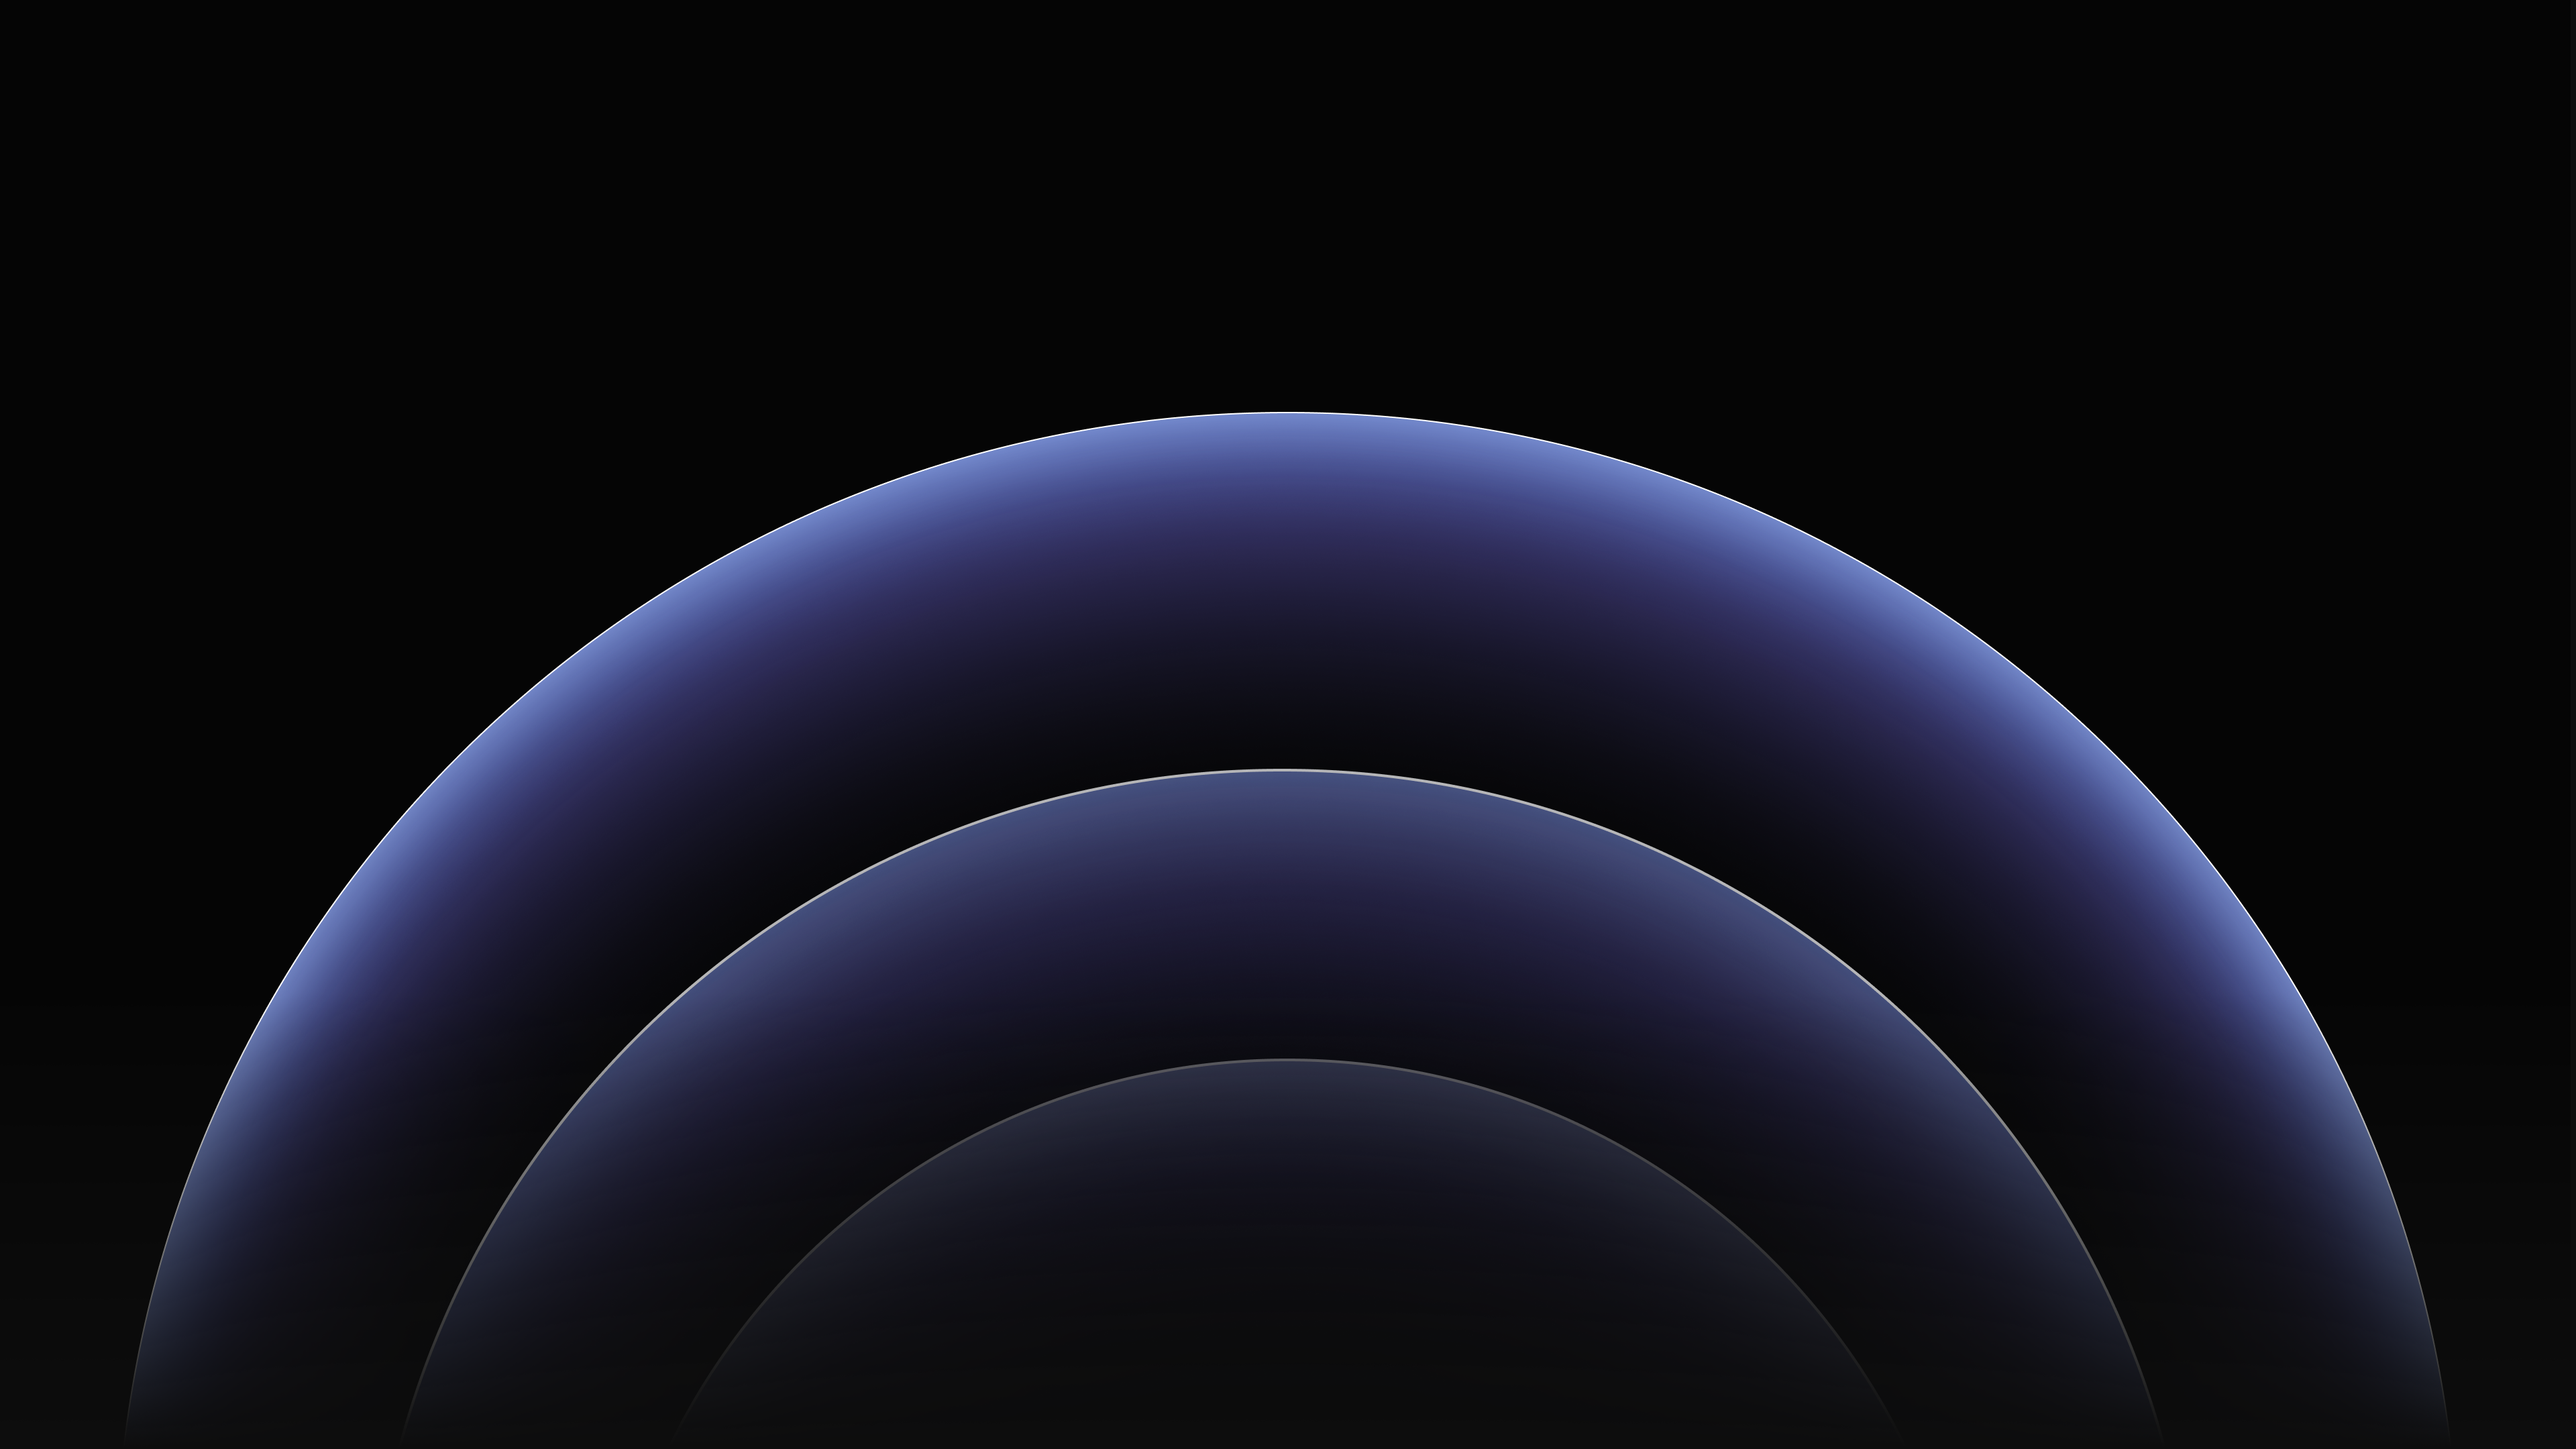
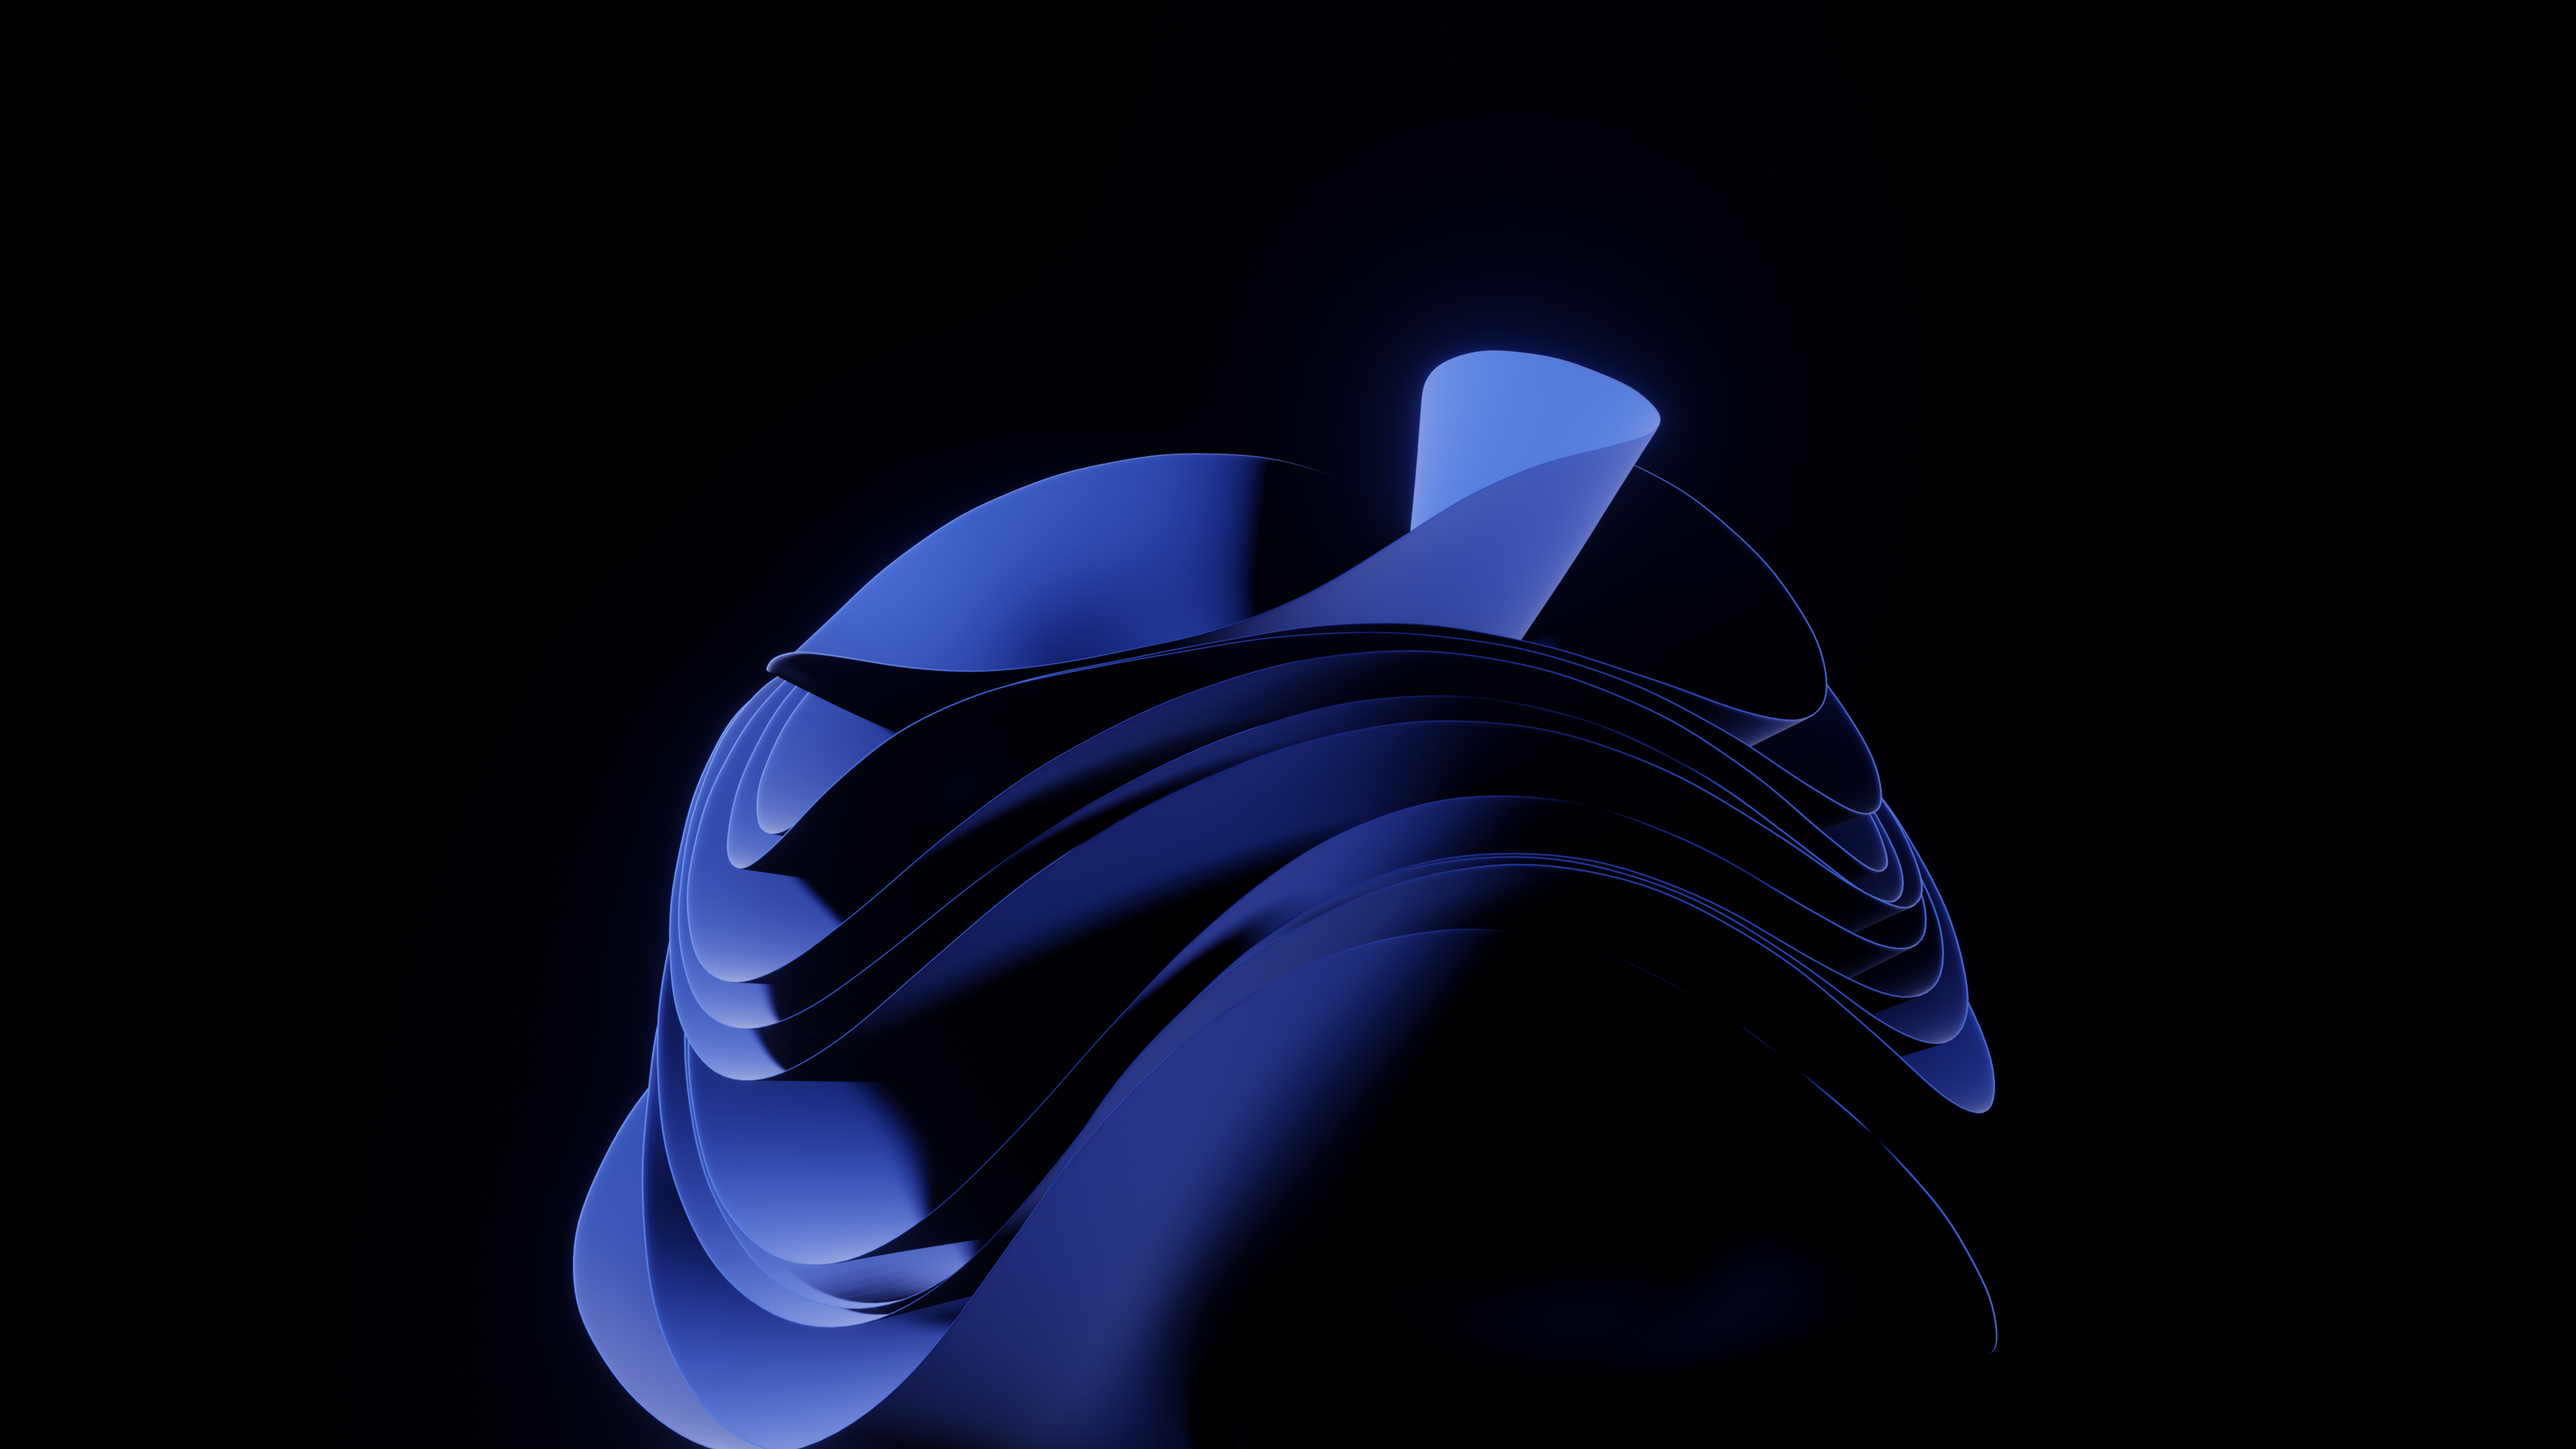
Added README and new configs

diff --git a/README.md b/README.md
@@ -1,0 +1,29 @@
+# KDE 6 Ricing Configs
+
+This repository contains most of my configuration files for ricing KDE 6. It includes visual tweaks and a music equalizer setup.
+
+## Applications Used
+
+- **[Force Blur (iGerman00 fork)](https://github.com/iGerman00/kwin-effects-forceblur)**  
+  A better blur effect for a liquid glass style transparencies  
+  - [View Configs](/better-blur)
+
+- **[JamesDSP (JDSP4Linux)](https://github.com/Audio4Linux/JDSP4Linux)**  
+  Audio equalizer for music  
+  - [View Configs](/JamesDSP)
+
+- **[FastFetch](https://github.com/fastfetch-cli/fastfetch)**  
+  Lightweight system info fetcher  
+  - [View Configs](/fastfetch)
+
+- **[Klassy](https://github.com/paulmcauley/klassy)**  
+  Custom window decorator for a more refined look  
+  - [View Configs](/Klassy)
+
+- **[Rounded Corners](https://github.com/matinlotfali/KDE-Rounded-Corners)**  
+  Enhances rounded corners across KDE  
+  - [View Configs](/Rounded-Corners)
+
+- **[Oh My Posh](https://github.com/JanDeDobbeleer/oh-my-posh)**  
+  Customizable shell prompt renderer  
+  - [View Configs](/ohmyposh)
